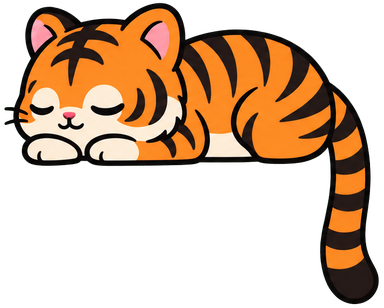
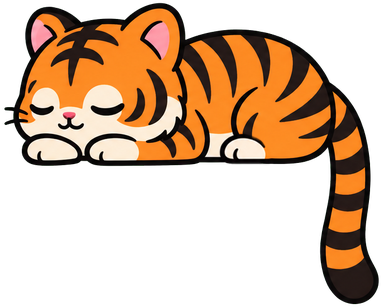
fix(art): restore the sleeping tiger's back paw

Changed region(s): [[0.5625, 0.4383, 0.7188, 0.5552]]

diff --git a/tests/neconyan-ui-assets.test.js b/tests/neconyan-ui-assets.test.js
@@ -40,6 +40,15 @@ describe('Neconyan generated UI artwork', () => {
             expect(createHash('sha256').update(bytes).digest('hex')).toBe(item.finalSha256);
         }
     });
+    test('ships the repaired Windows 98 hind paw in both petting frames', () => {
+        const provenance = readJson('public/img/neconyan/win98/artwork-provenance.json');
+        const repair = provenance.sources.find(item => item.path === 'win98-paw-sunburst.png');
+        expect(repair.outputs.map(item => path.basename(item.path))).toEqual(['sleeping-tiger-right.webp', 'sleeping-tiger-right-twitch.webp']);
+        for (const item of repair.outputs) {
+            const bytes = fs.readFileSync(path.join(root, item.path));
+            expect(createHash('sha256').update(bytes).digest('hex')).toBe(item.sha256);
+        }
+    });
     test('ships 52 distinct Sunburst backgrounds at the browser dimensions', () => {
         const provenance = readJson('default/content/backgrounds/artwork-provenance.json');
         const index = readJson('default/content/index.json');

diff --git a/public/sw.js b/public/sw.js
@@ -1,4 +1,4 @@
-const NN_SW_CACHE_VERSION = 'neconyan-cache-v20261011-chat-open-speed';
+const NN_SW_CACHE_VERSION = 'neconyan-cache-v20261011-cat-paw';
 const NN_CACHE_PREFIX = 'neconyan-cache-';
 const NN_STATIC_CACHE = `${NN_SW_CACHE_VERSION}-static`;
 const NN_SHELL_CACHE = `${NN_SW_CACHE_VERSION}-shell`;
